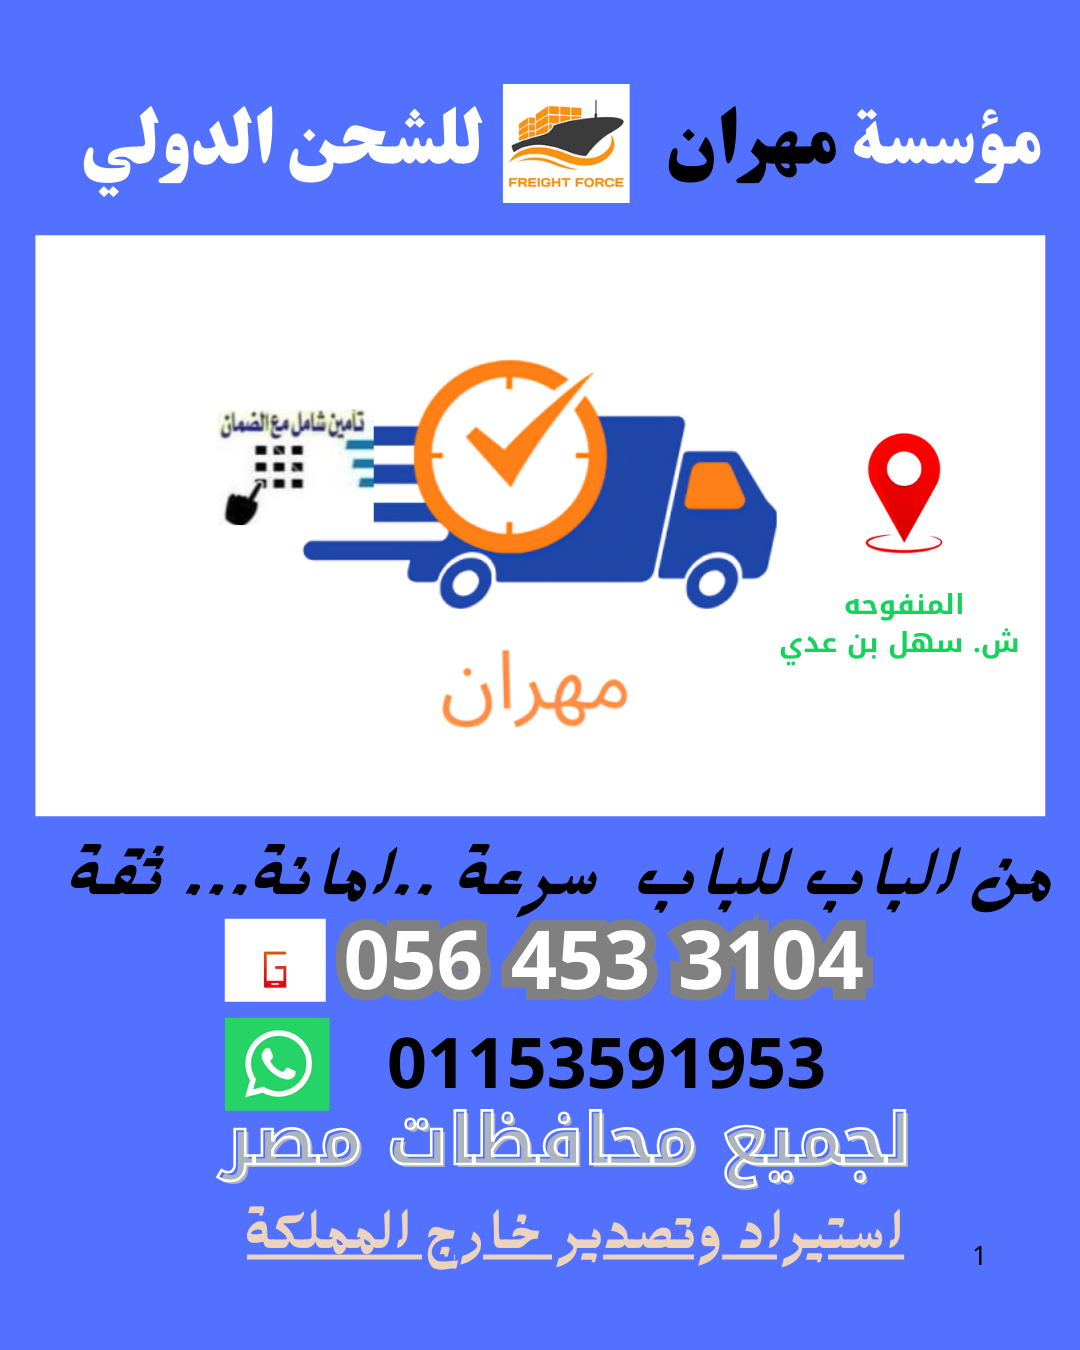
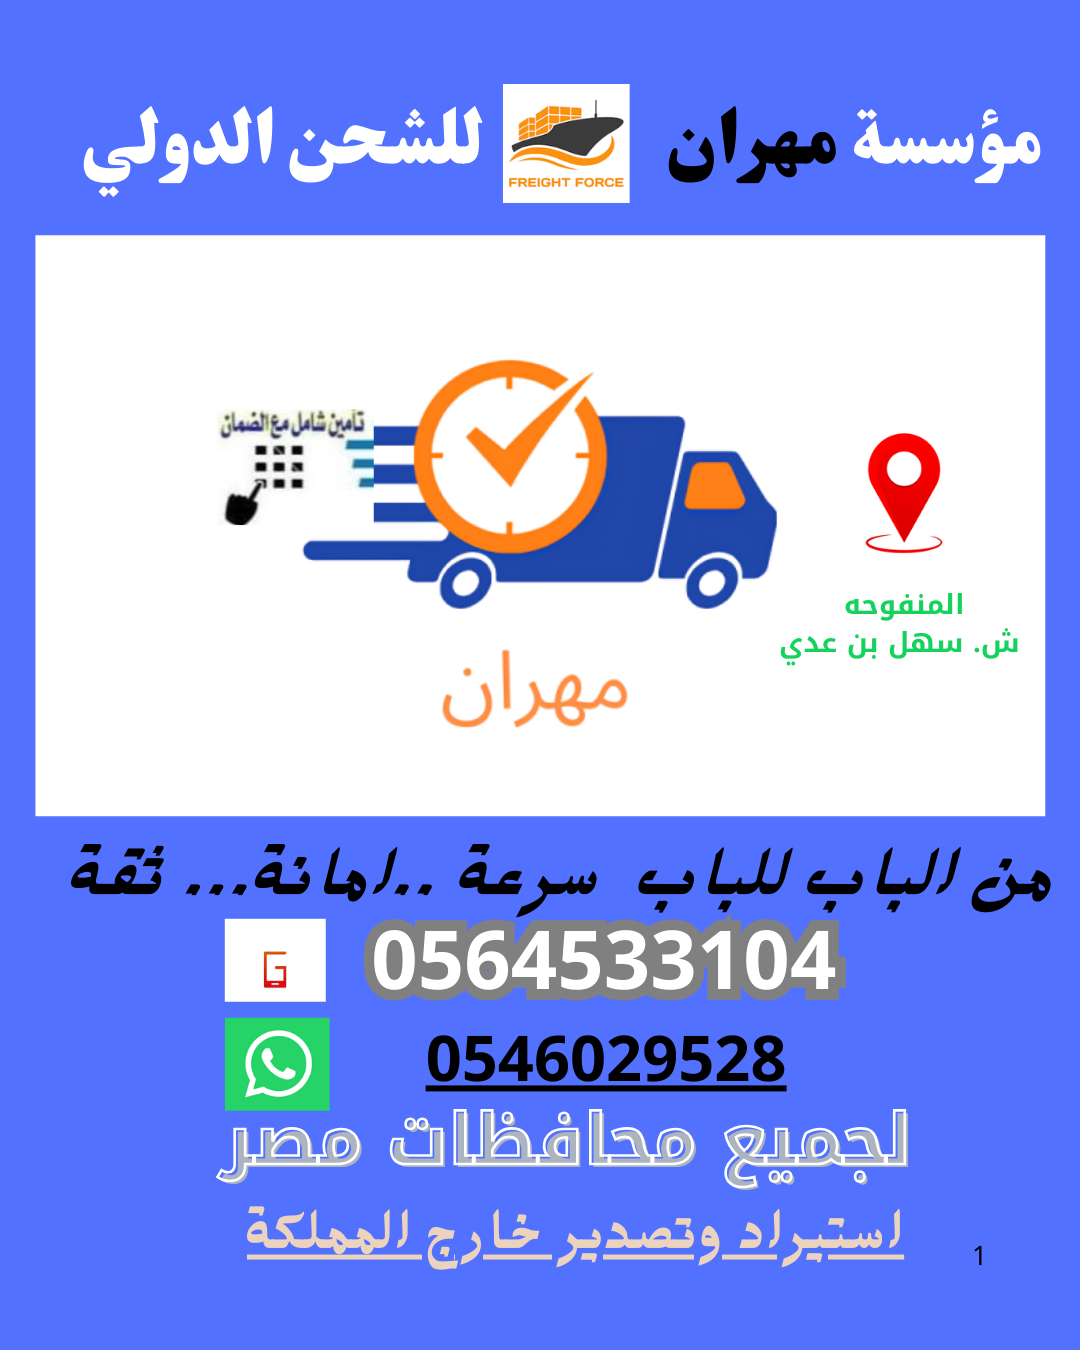
trando

Changed region(s): [[0.3056, 0.6533, 0.825, 0.8089]]

diff --git a/feature.html b/feature.html
@@ -218,26 +218,7 @@
    
       
     <!-- Newsletter Start -->
-    <div class="container-fluid bg-primary newsletter py-5">
-        <div class="container">
-            <div class="row g-5 align-items-center">
-                <div class="col-md-5 ps-lg-0 pt-5 pt-md-0 text-start wow fadeIn" data-wow-delay="0.3s">
-                    <img class="img-fluid" src="img/newsletter.png" alt="">
-                </div>
-                <div class="col-md-7 py-5 newsletter-text wow fadeIn" data-wow-delay="0.5s">
-                    <div class="btn btn-sm border rounded-pill text-white px-3 mb-3">النشرة الإخبارية</div>
-                    <h1 class="text-white mb-4">هل انت معجب بشركتنا</h1>
-                    <div class="position-relative w-100 mt-3 mb-2">
-                        <input class="form-control border-0 rounded-pill w-100 ps-4 pe-5" type="text"
-                            placeholder="Enter Your Email" style="height: 48px;">
-                        <button type="button" class="btn shadow-none position-absolute top-0 end-0 mt-1 me-2"><i
-                                class="fa fa-paper-plane text-primary fs-4"></i></button>
-                    </div>
-                    <small class="text-white-50">يتم الوصل اليك غفي اسرع وقت</small>
-                </div>
-            </div>
-        </div>
-    </div>
+
     <!-- Newsletter End -->
 
 
@@ -254,8 +235,12 @@
                 <div class="col-md-6 col-lg-3 wow fadeIn" data-wow-delay="0.3s">
                     <h5 class="text-white mb-4">الوصول الينا </h5>
                     <p><i class="fa fa-map-marker-alt me-3"></i>المملكة الرياض المنفوحة شارع سهل بن عدي</p>
-                    <p><i class="fa fa-phone-alt me-3"></i> +966 0540082159
-                    </p>
+                    <p style="color: bisque; "><i class="fa fa-phone-alt mr-2"></i>&nbsp;
+                        <a  style="color: bisque; font-weight:bold " href="tel:+9660546029528">+966 0546029528</a></p>
+                       
+                        <p style="color: bisque;">
+                            <a  style="color: bisque; font-weight:bold ;" href="https://api.whatsapp.com/send/?phone=966 0564533104&text=Hi&type=phone_number&app_absent=0">
+                                <i class="fab fa-whatsapp"></i>&nbsp; 966 0564533104</a></p>
                     <p><i class="fa fa-envelope me-3"></i>mahmoud2fci57@gmail.com</p>
                     <div class="d-flex pt-2">
                         <a class="btn btn-outline-light btn-social" href=""><i class="fab fa-twitter"></i></a>

diff --git a/testimonial.html b/testimonial.html
@@ -47,7 +47,7 @@
 
 
             <small style="color: bisque; "><i class="fa fa-phone-alt mr-2"></i>&nbsp;
-                <a  style="color: bisque; font-weight:bold " href="“tel:+0540082159”">+966 0546029528</a></small>
+                <a  style="color: bisque; font-weight:bold "  href="tel:+9660546029528">+966 0546029528</a></small>
                 &nbsp; &nbsp; &nbsp;
                 <small style="color: bisque;">
                     <a  style="color: bisque; font-weight:bold ;" href="https://api.whatsapp.com/send/?phone=966 0564533104&text=Hi&type=phone_number&app_absent=0">
@@ -165,7 +165,7 @@
                                 <img class="img-fluid flex-shrink-0 rounded-circle" src="img/testimonial-1.jpg"
                                     style="width: 60px; height: 60px;">
                                 <div class="ps-3">
-                                    <h5 class="mb-1">محمود محمد </h5>
+                                    <h5 class="mb-1"> ايه محمد </h5>
                                     <span>جديد</span>
                                 </div>
                             </div>
@@ -246,7 +246,12 @@
                 <div class="col-md-6 col-lg-3 wow fadeIn" data-wow-delay="0.3s">
                     <h5 class="text-white mb-4">الوصول الينا </h5>
                     <p><i class="fa fa-map-marker-alt me-3"></i>المملكة الرياض المنفوحة شارع سهل بن عدي</p>
-                    <p><i class="fa fa-phone-alt me-3"></i> +966 0540082159
+                    <p style="color: bisque; "><i class="fa fa-phone-alt mr-2"></i>&nbsp;
+                        <a  style="color: bisque; font-weight:bold " href="tel:+9660546029528">+966 0546029528</a></p>
+                        <br>
+                        <p style="color: bisque;">
+                            <a  style="color: bisque; font-weight:bold ;" href="https://api.whatsapp.com/send/?phone=966 0564533104&text=Hi&type=phone_number&app_absent=0">
+                                <i class="fab fa-whatsapp"></i>&nbsp; 966 0564533104</a></p>
                     </p>
                     <p><i class="fa fa-envelope me-3"></i>mahmoud2fci57@gmail.com</p>
                     <div class="d-flex pt-2">

diff --git a/about.html b/about.html
@@ -47,7 +47,7 @@
         <div class="container-fluid" style="text-align: center; background-color: black;">
 
             <small style="color: bisque; "><i class="fa fa-phone-alt mr-2"></i>&nbsp;
-                <a  style="color: bisque; font-weight:bold " href="“tel:+0540082159”">+966 0546029528</a></small>
+                <a  style="color: bisque; font-weight:bold " href="tel:+9660546029528">+966 0546029528</a></small>
                 &nbsp; &nbsp; &nbsp;
                 <small style="color: bisque;">
                     <a  style="color: bisque; font-weight:bold ;" href="https://api.whatsapp.com/send/?phone=966 0564533104&text=Hi&type=phone_number&app_absent=0">
@@ -390,8 +390,15 @@
                 <div class="col-md-6 col-lg-3 wow fadeIn" data-wow-delay="0.3s">
                     <h5 class="text-white mb-4">الوصول الينا </h5>
                     <p><i class="fa fa-map-marker-alt me-3"></i>المملكة الرياض المنفوحة شارع سهل بن عدي</p>
-                    <p><i class="fa fa-phone-alt me-3"></i> +966 0540082159
+                    <p style="color: bisque; "><i class="fa fa-phone-alt mr-2"></i>&nbsp;
+                        <a  style="color: bisque; font-weight:bold " href="tel:+9660546029528">+966 0546029528</a>
                     </p>
+                     
+                       
+                        <p style="color: bisque;">
+                            <a  style="color: bisque; font-weight:bold ;" href="https://api.whatsapp.com/send/?phone=966 0564533104&text=Hi&type=phone_number&app_absent=0">
+                                <i class="fab fa-whatsapp"></i>&nbsp; 966 0564533104</a>
+                            </p>
                     <p><i class="fa fa-envelope me-3"></i>mahmoud2fci57@gmail.com</p>
                     <div class="d-flex pt-2">
                         <a class="btn btn-outline-light btn-social" href=""><i class="fab fa-twitter"></i></a>

diff --git a/team.html b/team.html
@@ -47,7 +47,7 @@
         <div class="container-fluid" style="text-align: center; background-color: black;">
 
             <small style="color: bisque; "><i class="fa fa-phone-alt mr-2"></i>&nbsp;
-                <a  style="color: bisque; font-weight:bold " href="“tel:+0540082159”">+966 0546029528</a></small>
+                <a  style="color: bisque; font-weight:bold "  href="tel:+9660546029528">+966 0546029528</a></small>
                 &nbsp; &nbsp; &nbsp;
                 <small style="color: bisque;">
                     <a  style="color: bisque; font-weight:bold ;" href="https://api.whatsapp.com/send/?phone=966 0564533104&text=Hi&type=phone_number&app_absent=0">
@@ -284,8 +284,13 @@
                 <div class="col-md-6 col-lg-3 wow fadeIn" data-wow-delay="0.3s">
                     <h5 class="text-white mb-4">الوصول الينا </h5>
                     <p><i class="fa fa-map-marker-alt me-3"></i>المملكة الرياض المنفوحة شارع سهل بن عدي</p>
-                    <p><i class="fa fa-phone-alt me-3"></i> +966 0540082159
-                    </p>
+                    <p style="color: bisque; "><i class="fa fa-phone-alt mr-2"></i>&nbsp;
+                        <a  style="color: bisque; font-weight:bold " href="tel:+9660546029528">+966 0546029528</a></p>
+                        <br>
+            
+                        <p style="color: bisque;">
+                            <a  style="color: bisque; font-weight:bold ;" href="https://api.whatsapp.com/send/?phone=966 0564533104&text=Hi&type=phone_number&app_absent=0">
+                                <i class="fab fa-whatsapp"></i>&nbsp; 966 0564533104</a></p>
                     <p><i class="fa fa-envelope me-3"></i>mahmoud2fci57@gmail.com</p>
                     <div class="d-flex pt-2">
                         <a class="btn btn-outline-light btn-social" href=""><i class="fab fa-twitter"></i></a>

diff --git a/index.html b/index.html
@@ -438,7 +438,7 @@
                                 <img class="img-fluid flex-shrink-0 rounded-circle" src="img/testimonial-1.jpg"
                                     style="width: 60px; height: 60px;">
                                 <div class="ps-3">
-                                    <h5 class="mb-1">محمود محمد </h5>
+                                    <h5 class="mb-1"> ايه محمد </h5>
                                     <span>جديد</span>
                                 </div>
                             </div>
@@ -512,8 +512,17 @@
                 <div class="col-md-6 col-lg-3 wow fadeIn" data-wow-delay="0.3s">
                     <h5 class="text-white mb-4">الوصول الينا </h5>
                     <p><i class="fa fa-map-marker-alt me-3"></i>المملكة الرياض المنفوحة شارع سهل بن عدي</p>
-                    <p><i class="fa fa-phone-alt me-3"></i> +966 0540082159
-                    </p>
+                   
+                        <p style="color: bisque; "><i class="fa fa-phone-alt mr-2"></i>&nbsp;
+                            <a  style="color: bisque; font-weight:bold " href="tel:+9660546029528">+966 0546029528</a>
+                        </p>
+                      
+                  
+                            <p style="color: bisque;">
+                                <a  style="color: bisque; font-weight:bold ;" href="https://api.whatsapp.com/send/?phone=966 0564533104&text=Hi&type=phone_number&app_absent=0">
+                                    <i class="fab fa-whatsapp"></i>&nbsp; 966 0564533104</a></p>
+                   
+             
                     <p><i class="fa fa-envelope me-3"></i>mahmoud2fci57@gmail.com</p>
                     <div class="d-flex pt-2">
                         <a class="btn btn-outline-light btn-social" href=""><i class="fab fa-twitter"></i></a>

diff --git a/service.html b/service.html
@@ -48,7 +48,7 @@
 
 
             <small style="color: bisque; "><i class="fa fa-phone-alt mr-2"></i>&nbsp;
-                <a  style="color: bisque; font-weight:bold " href="“tel:+0540082159”">+966 0546029528</a></small>
+                <a  style="color: bisque; font-weight:bold "  href="tel:+9660546029528">+966 0546029528</a></small>
                 &nbsp; &nbsp; &nbsp;
                 <small style="color: bisque;">
                     <a  style="color: bisque; font-weight:bold ;" href="https://api.whatsapp.com/send/?phone=966 0564533104&text=Hi&type=phone_number&app_absent=0">
@@ -317,8 +317,13 @@
                 <div class="col-md-6 col-lg-3 wow fadeIn" data-wow-delay="0.3s">
                     <h5 class="text-white mb-4">الوصول الينا </h5>
                     <p><i class="fa fa-map-marker-alt me-3"></i>المملكة الرياض المنفوحة شارع سهل بن عدي</p>
-                    <p><i class="fa fa-phone-alt me-3"></i> +966 0540082159
-                    </p>
+                    <p style="color: bisque; "><i class="fa fa-phone-alt mr-2"></i>&nbsp;
+                        <a  style="color: bisque; font-weight:bold " href="tel:+9660546029528">+966 0546029528</a></p>
+                        
+                        <br>
+                        <p style="color: bisque;">
+                            <a  style="color: bisque; font-weight:bold ;" href="https://api.whatsapp.com/send/?phone=966 0564533104&text=Hi&type=phone_number&app_absent=0">
+                                <i class="fab fa-whatsapp"></i>&nbsp; 966 0564533104</a></p> 
                     <p><i class="fa fa-envelope me-3"></i>mahmoud2fci57@gmail.com</p>
                     <div class="d-flex pt-2">
                         <a class="btn btn-outline-light btn-social" href=""><i class="fab fa-twitter"></i></a>

diff --git a/contact.html b/contact.html
@@ -47,7 +47,7 @@
 
 
             <small style="color: bisque; "><i class="fa fa-phone-alt mr-2"></i>&nbsp;
-                <a  style="color: bisque; font-weight:bold " href="“tel:+0540082159”">+966 0546029528</a></small>
+                <a  style="color: bisque; font-weight:bold " href="tel:+9660546029528">+966 0546029528</a></small>
                 &nbsp; &nbsp; &nbsp;
                 <small style="color: bisque;">
                     <a  style="color: bisque; font-weight:bold ;" href="https://api.whatsapp.com/send/?phone=966 0564533104&text=Hi&type=phone_number&app_absent=0">
@@ -242,8 +242,13 @@
                 <div class="col-md-6 col-lg-3 wow fadeIn" data-wow-delay="0.3s">
                     <h5 class="text-white mb-4">الوصول الينا </h5>
                     <p><i class="fa fa-map-marker-alt me-3"></i>المملكة الرياض المنفوحة شارع سهل بن عدي</p>
-                    <p><i class="fa fa-phone-alt me-3"></i> +966 0540082159
-                    </p>
+                    <p style="color: bisque; "><i class="fa fa-phone-alt mr-2"></i>&nbsp;
+                        <a  style="color: bisque; font-weight:bold " href="tel:+9660546029528">+966 0546029528</a></p>
+                      
+        
+                        <p style="color: bisque;">
+                            <a  style="color: bisque; font-weight:bold ;" href="https://api.whatsapp.com/send/?phone=966 0564533104&text=Hi&type=phone_number&app_absent=0">
+                                <i class="fab fa-whatsapp"></i>&nbsp; 966 0564533104</a></p>
                     <p><i class="fa fa-envelope me-3"></i>mahmoud2fci57@gmail.com</p>
                     <div class="d-flex pt-2">
                         <a class="btn btn-outline-light btn-social" href=""><i class="fab fa-twitter"></i></a>
